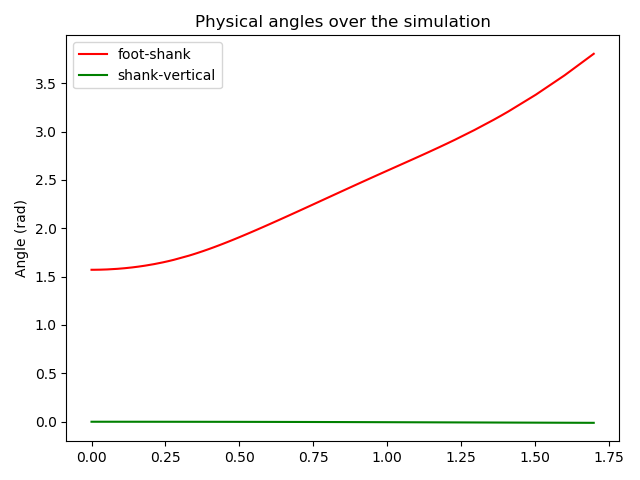
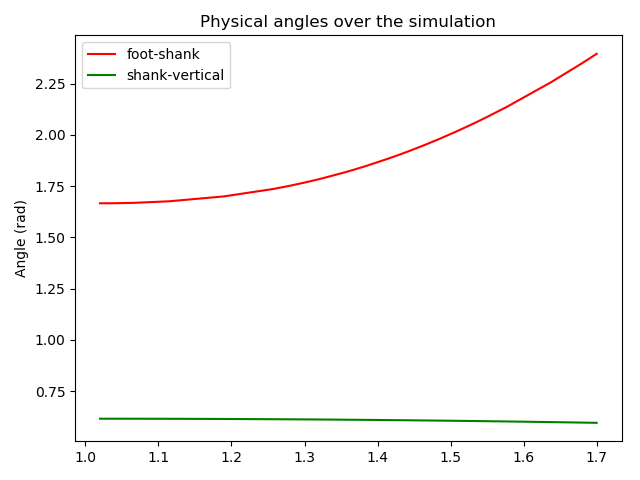
Changes and debugging

diff --git a/gait_simulate.py b/gait_simulate.py
@@ -36,7 +36,7 @@ GRAVITY = 9.81 # N/kg
 
 
 class GaitSimulator:
-    def __init__(self, N, footDrop=False, fes=False, Kp=0, Kd=0):
+    def __init__(self, footDrop=False, fes=False, Kp=0, Kd=0):
         """
         :param N: number of gait cycles to simulate for 
         :param footDrop: boolean flag for foot drop simulation
@@ -45,7 +45,6 @@ class GaitSimulator:
         :param Kd: derivative gain for FES control
         """
         # CLASS ATTRIBUTES
-        self.N = N
         self.footDrop = footDrop 
         self.fes = fes 
         self.Kp = Kp 
@@ -150,6 +149,7 @@ class GaitSimulator:
         l_tendon_norm_tibialis = self.tibialis.norm_tendon_length(l_tibialis, l_ce_norm_tibialis)
         torque_soleus = force_length_tendon_single_val(l_tendon_norm_soleus) * F_MAX_SOLEUS * MOMENT_ARM_SOLEUS
         torque_tibant = force_length_tendon_single_val(l_tendon_norm_tibialis) * F_MAX_TIBIALIS * MOMENT_ARM_TIBIALIS
+        # print(l_ce_norm_soleus)
 
         # derivative of state: 
         xd = [0, 0, 0, 0, 0, 0]
@@ -175,7 +175,6 @@ class GaitSimulator:
         """
         print("\n\n * * * * STARTING NEW SIMULATION * * * * ")
         print("\nParameters:")
-        print("Number of gait cycles = {}".format(self.N))
         print("Foot Drop = {}".format(self.footDrop))
         print("FES = {}".format(self.fes))
         if(self.fes):
@@ -185,8 +184,6 @@ class GaitSimulator:
         def f(t, x):
             return self.dynamics(x, t)
 
-        T = self.N * CYCLE_PERIOD
-        x0 = [np.pi/2, 0, 0, 0, 1, 1] # TODO: initial values need to be determined 
         """
         state = [
                     shank-foot angle, 
@@ -197,13 +194,21 @@ class GaitSimulator:
                     normalized CE length of tibialis
                 ]
         """
+        t0 = 0.6*CYCLE_PERIOD
+        H0 = r.hip_angle(t0)
+        th0 = r.knee_angle(t0) - H0
+        h_ankle = HIP_HEIGHT - np.cos(np.pi - H0)*THIGH_LENGTH - SHANK_LENGTH*np.cos(th0)
+        beta0 = 1/np.sin(h_ankle/FOOT_LENGTH) - th0 - np.pi/2
+
+        x0 = [beta0, 0, -th0, 0, 1, 1] # TODO: initial values need to be determined 
         sol = solve_ivp(
                         f, 
-                        [0, T], 
+                        [t0, CYCLE_PERIOD], 
                         x0, 
                         # rtol=1e-5, 
                         # atol=1e-8
                     )
+
         self.get_outputs(sol)
 
     def get_outputs(self, sol):
@@ -212,6 +217,7 @@ class GaitSimulator:
         :return plots of outputs 
         """
         time = sol.t
+        print(time)
         beta = sol.y[0,:]
         d_beta = sol.y[1,:]
         theta = sol.y[2,:]

diff --git a/main.py b/main.py
@@ -1,5 +1,5 @@
 from gait_simulate import GaitSimulator 
 import muscle
 
-g = GaitSimulator(1)
+g = GaitSimulator()
 g.simulate()
